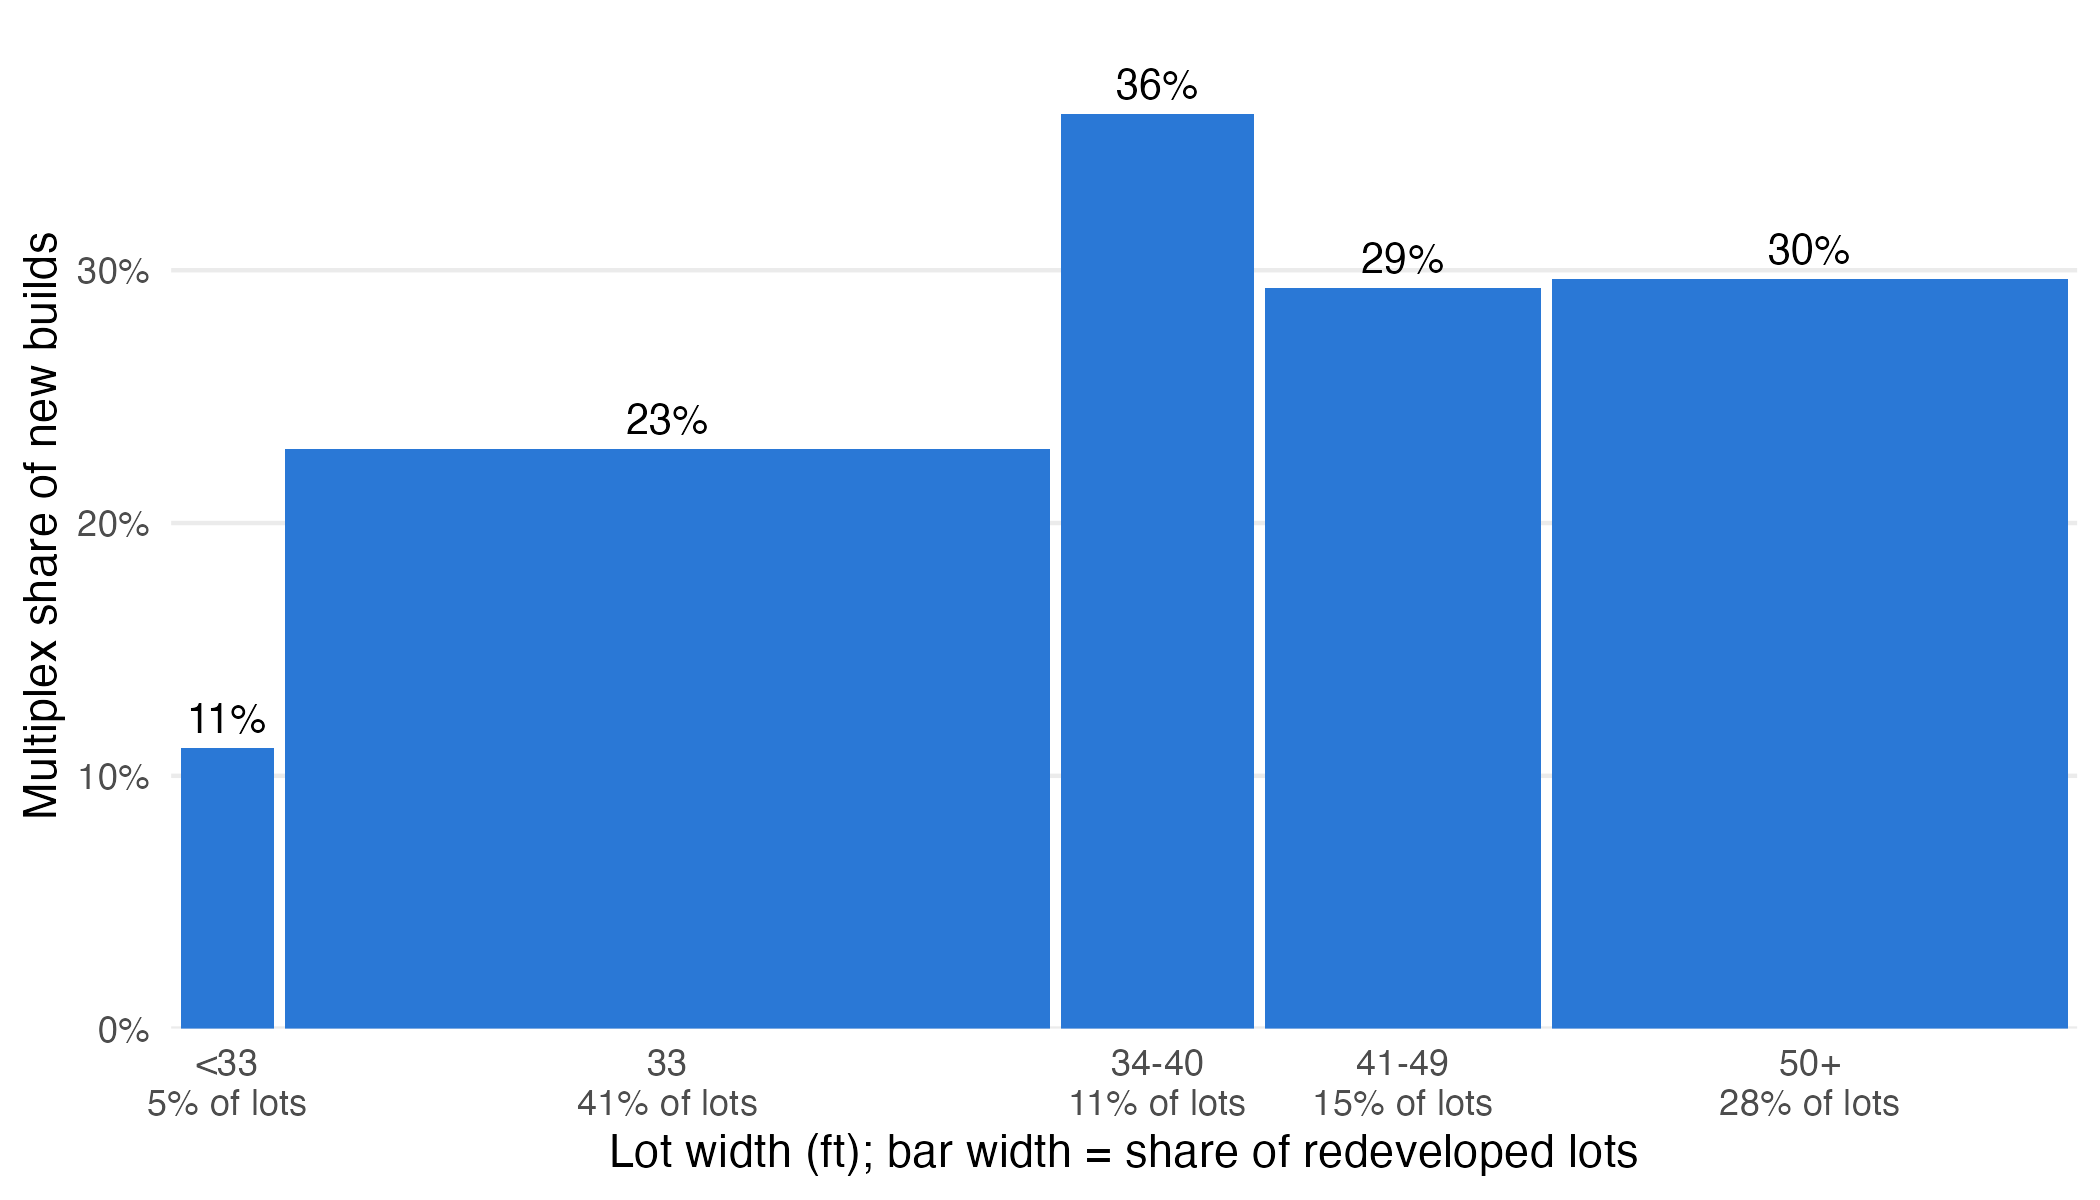
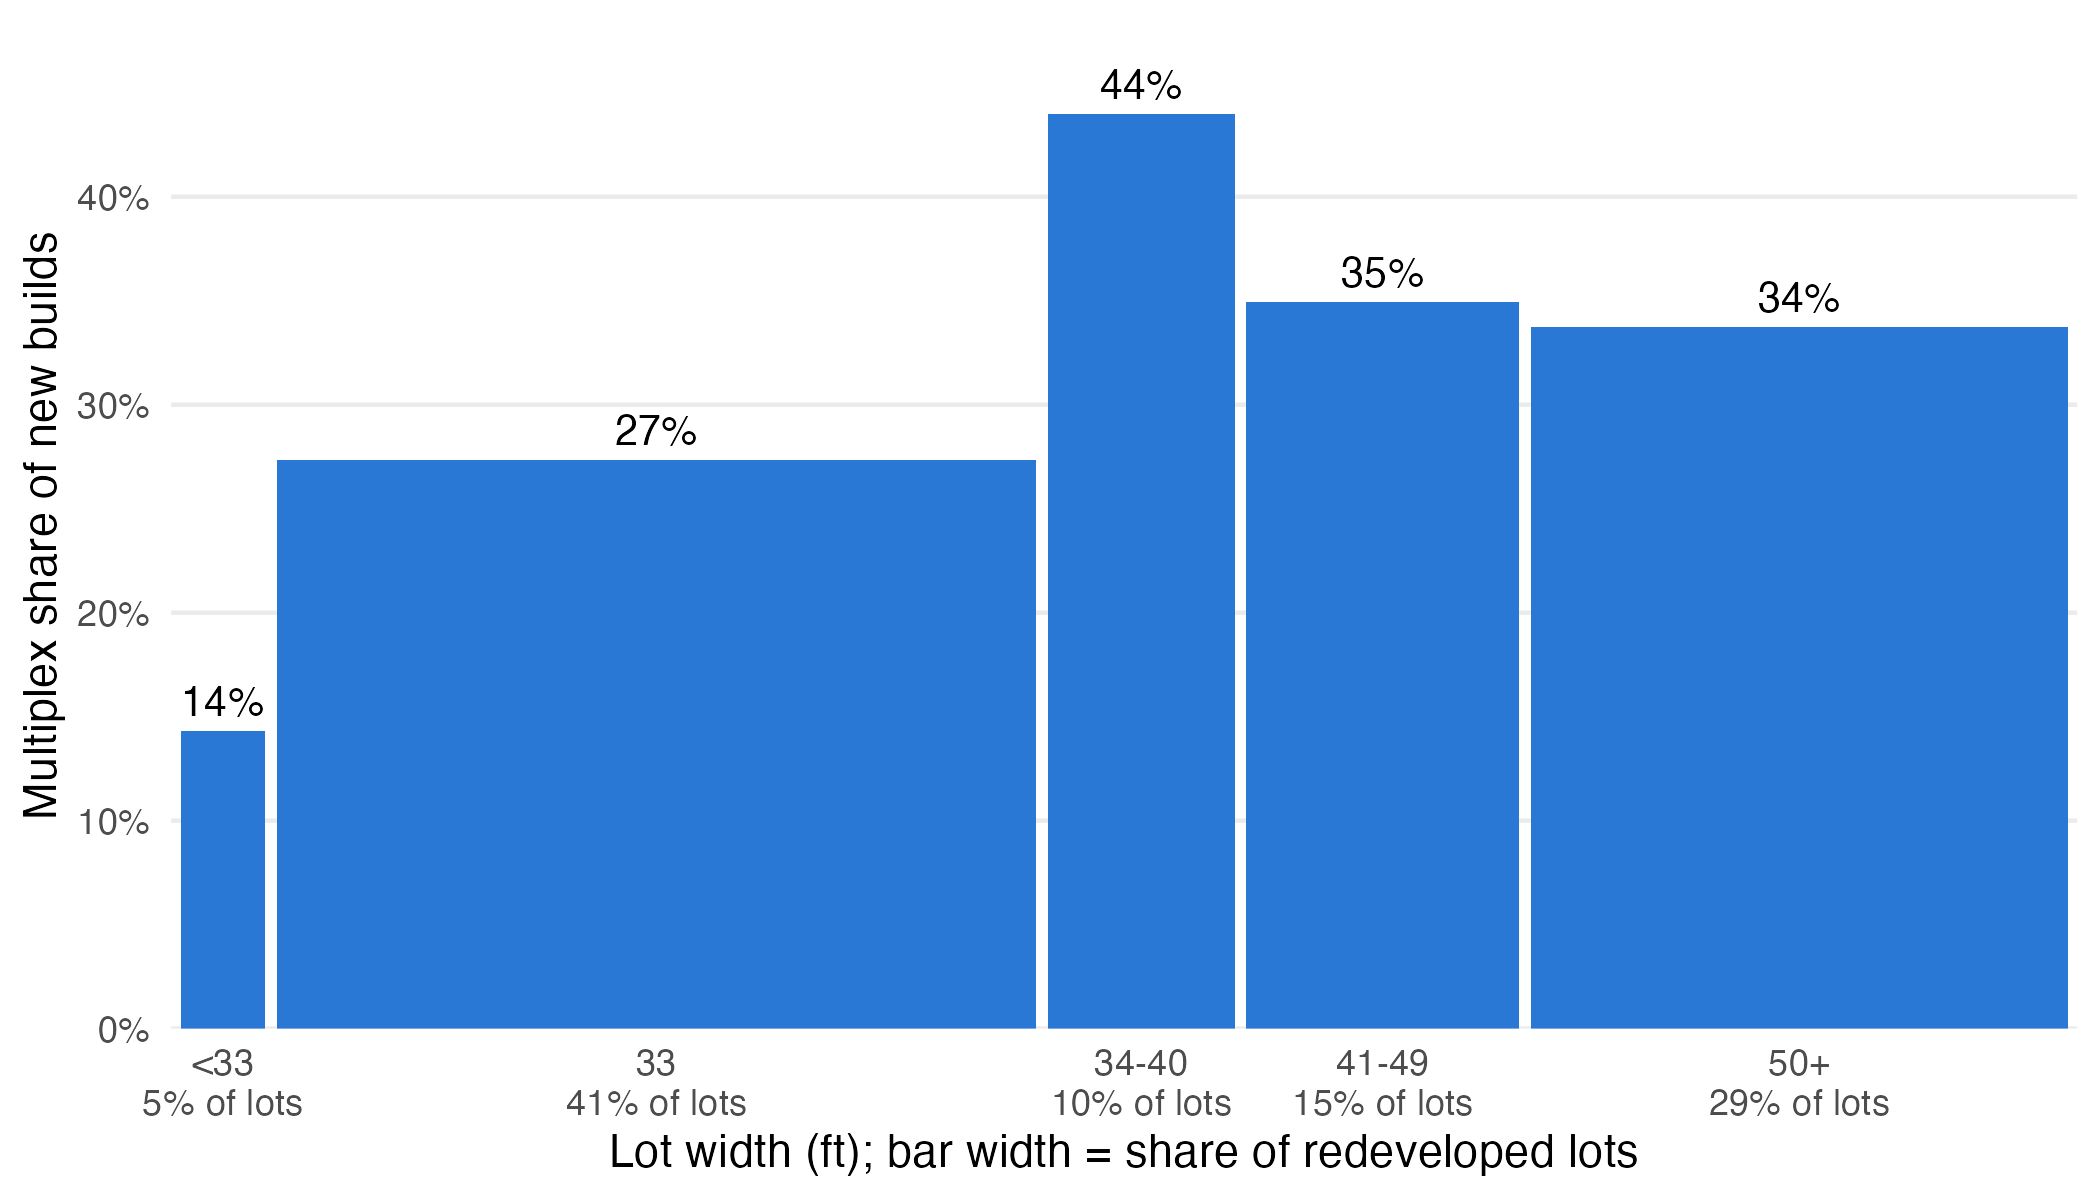
[OK] multiplexShareByWidth.png: sample = new builds applied on/after R1-1 start

diff --git a/notes/factlog.md b/notes/factlog.md
@@ -201,9 +201,10 @@
 - Decide: (a) adopt R1 + RT for Table 2 and the premium paragraph only (permit analysis stays R1); (b) whether a neighbourhood panel returns; (c) a nearest-R1-neighbour matching design for the premium.
 
 ## multiplexShareByWidth.png (figure, 11/23/26) — OK
-Multiplex share of new builds issued 2024+ (latest permit per 2018 R1-1 SFD lot, otherMultiple dropped; N = 1,311), by
-round(width): <33 11% (8/72), 33 23% (123/536), 34-40 36% (51/141), 41-49 29% (58/198), 50+ 30% (108/364). Bar widths =
-bin share of redeveloped lots (5/41/11/15/28%). 40 ft in 34-40, 50 ft in 50+. Script: scripts/multiplexShareByWidthPlot.R
+Multiplex share of new builds applied on/after R1-1 start 2023-10-17 (latest permit per 2018 R1-1 SFD lot, otherMultiple
+dropped; N = 1,108), by round(width): <33 14% (8/56), 33 27% (123/450), 34-40 44% (51/116), 41-49 35% (58/166), 50+ 34%
+(108/320). Bar widths = bin share of redeveloped lots (5/41/10/15/29%). 11/23: switched from issued-2024+ (which
+included pre-reform applications that cannot be multiplexes); 33 bin now matches the mplxN*ThirtyThree macro sample. 40 ft in 34-40, 50 ft in 50+. Script: scripts/multiplexShareByWidthPlot.R
 (reads permitLotLinks.rds; same sample as the product-mix table in multiplexLotWidth.out). Checks: unique lots, bin Ns sum to N.
 
 ## permitValueDist.tex (table, 11/23/26) — OK
